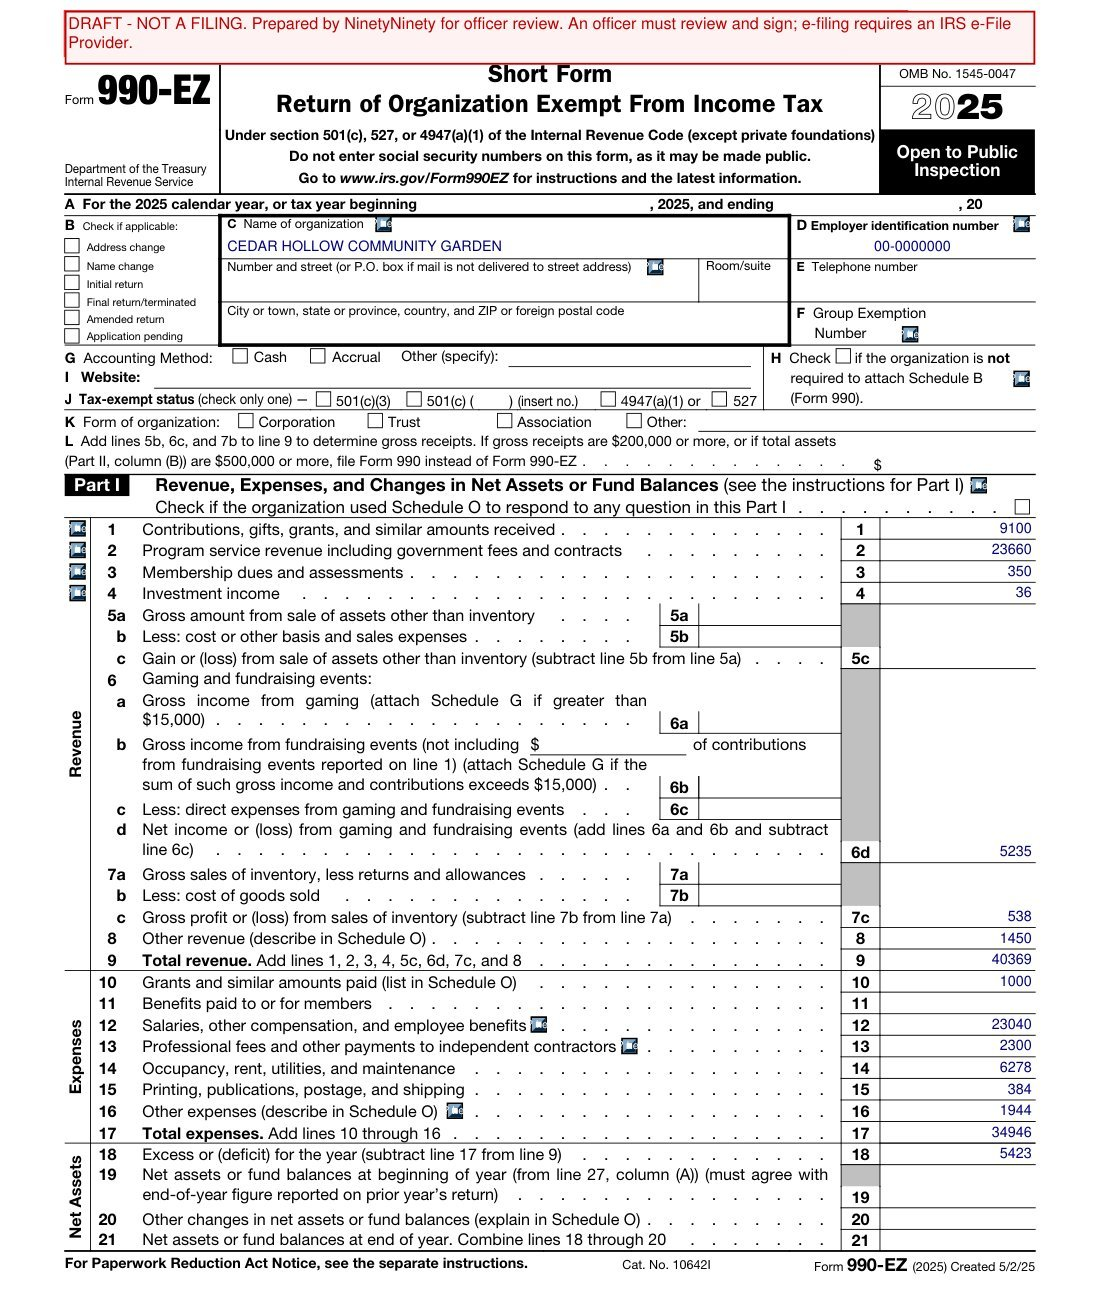
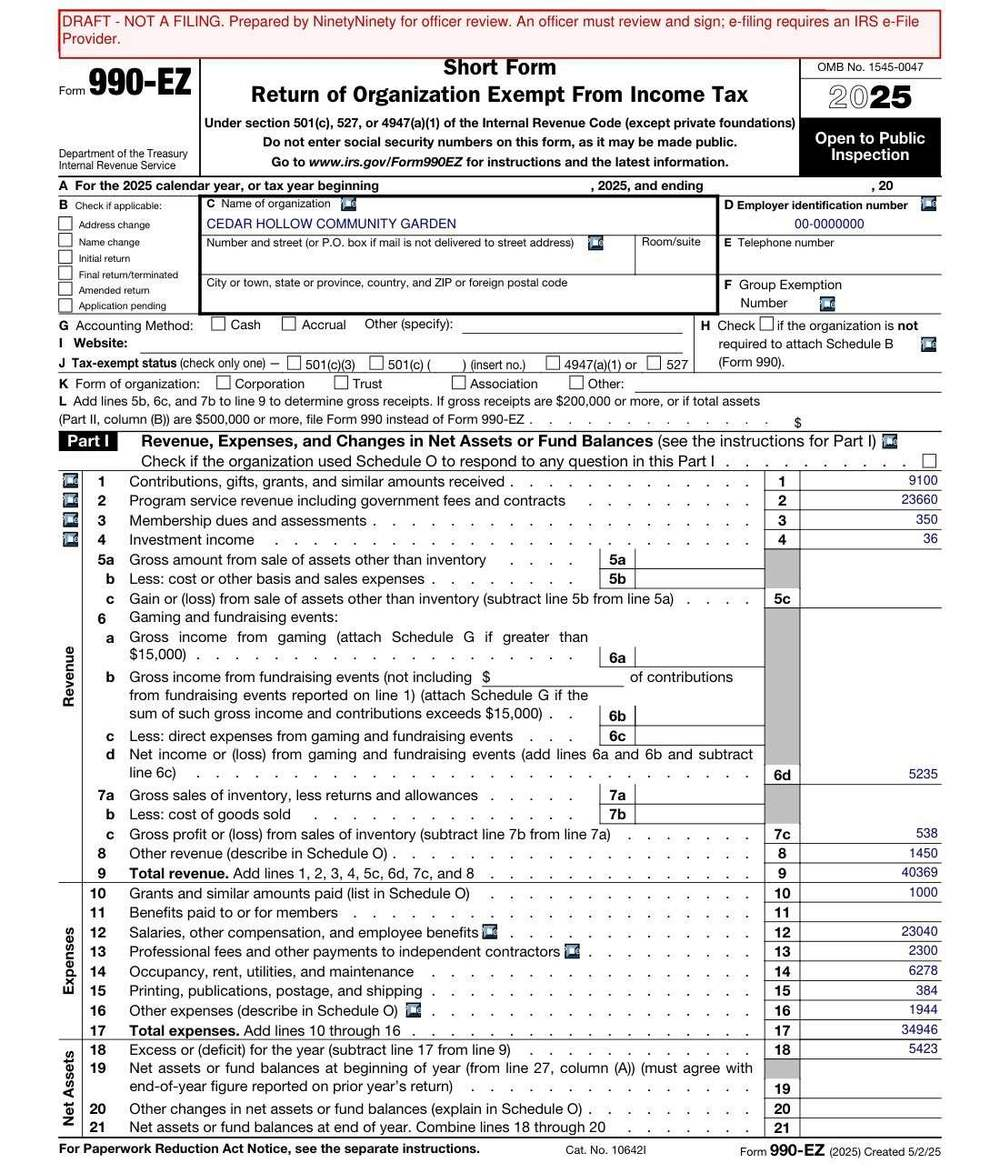
chore(site): robots, sitemap, llms.txt, shorter meta, LCP preload, lighter hero image
From a squirrelscan audit of the live site (score 36): the two errors were a
missing robots.txt and sitemap; the fixable warnings were meta description
length, a short technical title, the hero image over 200 KB, and no preload
on the likely-LCP image.

Claude-Session: https://claude.ai/code/session_016sxQo4WZfe6azFg4xAkTE1

diff --git a/index.html b/index.html
@@ -4,21 +4,22 @@
 <meta charset="utf-8">
 <meta name="viewport" content="width=device-width, initial-scale=1">
 <title>NinetyNinety: a Form 990-EZ draft from your bank export</title>
-<meta name="description" content="Upload the year's bank transactions and get a Form 990-EZ draft your board can review. Every Part I line is filled, explained, and tied to the IRS instruction behind it.">
+<meta name="description" content="Turn the year's bank transactions into a Form 990-EZ draft your board can review. Every line explained and tied to the IRS instruction behind it.">
 <meta name="color-scheme" content="dark">
 <link rel="canonical" href="https://ishal1410.github.io/ninetyninety/">
 <meta property="og:type" content="website">
 <meta property="og:url" content="https://ishal1410.github.io/ninetyninety/">
 <meta property="og:title" content="NinetyNinety: a Form 990-EZ draft from your bank export">
-<meta property="og:description" content="Upload the year's bank transactions and get a Form 990-EZ draft your board can review. Every line explained and tied to the IRS instruction behind it.">
+<meta property="og:description" content="Turn the year's bank transactions into a Form 990-EZ draft your board can review. Every line explained and tied to the IRS instruction behind it.">
 <meta property="og:image" content="https://ishal1410.github.io/ninetyninety/assets/og.jpg">
 <meta property="og:image:width" content="1200">
 <meta property="og:image:height" content="630">
 <meta name="twitter:card" content="summary_large_image">
 <meta name="twitter:title" content="NinetyNinety: a Form 990-EZ draft from your bank export">
-<meta name="twitter:description" content="Upload the year's bank transactions and get a Form 990-EZ draft your board can review. Every line explained and tied to the IRS instruction behind it.">
+<meta name="twitter:description" content="Turn the year's bank transactions into a Form 990-EZ draft your board can review. Every line explained and tied to the IRS instruction behind it.">
 <meta name="twitter:image" content="https://ishal1410.github.io/ninetyninety/assets/og.jpg">
 <link rel="icon" href="assets/favicon.png">
+<link rel="preload" as="image" href="assets/draft-page1.jpg" fetchpriority="high">
 <link rel="preconnect" href="https://fonts.googleapis.com">
 <link rel="preconnect" href="https://fonts.gstatic.com" crossorigin>
 <link href="https://fonts.googleapis.com/css2?family=Geist:wght@400;500;600;700&family=Geist+Mono:wght@400;500&display=swap" rel="stylesheet">
@@ -267,7 +268,7 @@
       </div>
     </div>
     <div class="stage rv d2">
-      <div class="bezel"><div class="core"><img src="assets/draft-page1.jpg" width="1100" height="1290" alt="Page one of the drafted Form 990-EZ, filled from a bank export and stamped DRAFT, NOT A FILING" fetchpriority="high"></div></div>
+      <div class="bezel"><div class="core"><img src="assets/draft-page1.jpg" width="1000" height="1173" alt="Page one of the drafted Form 990-EZ, filled from a bank export and stamped DRAFT, NOT A FILING" fetchpriority="high"></div></div>
       <div class="chip c1 rv d3"><span class="k">Line 1, contributions</span><span class="v" id="chip-1"></span></div>
       <div class="chip c2 rv d4"><span class="k">Line 6d, fundraising events</span><span class="v" id="chip-6d"></span></div>
       <div class="chip c3 rv d5"><span class="k">Line 9, total revenue</span><span class="v" id="chip-9"></span></div>

diff --git a/technical.html b/technical.html
@@ -3,20 +3,20 @@
 <head>
 <meta charset="utf-8">
 <meta name="viewport" content="width=device-width, initial-scale=1">
-<title>How NinetyNinety is built</title>
-<meta name="description" content="How NinetyNinety is built: one Strands Agents graph per batch, two blind entry nodes, a conditional Referee, Python for every sum. The recorded run, batch by batch.">
+<title>How NinetyNinety is built: the Strands graph, the run, the validation</title>
+<meta name="description" content="One Strands Agents graph per batch: two blind entry nodes, a conditional Referee, Python for every sum. The recorded run and the validation.">
 <meta name="color-scheme" content="dark">
 <link rel="canonical" href="https://ishal1410.github.io/ninetyninety/technical.html">
 <meta property="og:type" content="website">
 <meta property="og:url" content="https://ishal1410.github.io/ninetyninety/technical.html">
 <meta property="og:title" content="How NinetyNinety is built">
-<meta property="og:description" content="Two Strands agents post each transaction to a Part I line and cite the IRS rule. A Referee settles disputes. Python foots the totals.">
+<meta property="og:description" content="One Strands Agents graph per batch: two blind entry nodes, a conditional Referee, Python for every sum. The recorded run and the validation.">
 <meta property="og:image" content="https://ishal1410.github.io/ninetyninety/assets/og.jpg">
 <meta property="og:image:width" content="1200">
 <meta property="og:image:height" content="630">
 <meta name="twitter:card" content="summary_large_image">
 <meta name="twitter:title" content="How NinetyNinety is built">
-<meta name="twitter:description" content="Two Strands agents post each transaction to a Part I line and cite the IRS rule. A Referee settles disputes. Python foots the totals.">
+<meta name="twitter:description" content="One Strands Agents graph per batch: two blind entry nodes, a conditional Referee, Python for every sum. The recorded run and the validation.">
 <meta name="twitter:image" content="https://ishal1410.github.io/ninetyninety/assets/og.jpg">
 <link rel="icon" href="assets/favicon.png">
 <link rel="preconnect" href="https://fonts.googleapis.com">
